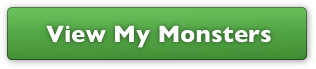
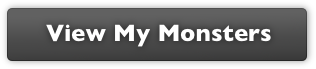
Match buttons to gray color scheme.

diff --git a/spec/requests/monster_edit_spec.rb b/spec/requests/monster_edit_spec.rb
@@ -93,7 +93,7 @@ describe "Edit Monster page" do
 
       it "updates the level" do
         click_button('Save this Monster')
-        page.should have_normal_content "Level: 12"
+        page.should have_normal_content "Level 12"
       end
 
       it "fails if the level is 0" do
@@ -131,7 +131,7 @@ describe "Edit Monster page" do
 
       it "updates the role" do
         click_button('Save this Monster')
-        page.should have_normal_content 'Role: Skirmisher'
+        page.should have_normal_content 'Skirmisher'
       end
     end
 
@@ -139,33 +139,33 @@ describe "Edit Monster page" do
       before :each do 
         visit edit_monster_path(@mon.id)
         select('Elite', :from => 'monster[subrole]')
+        click_button('Save this Monster')
       end
 
-      it "redirects to the show page" do
-        click_button('Save this Monster')
+      it "redirects to the list page" do
         page.should_not have_field('monster[subrole]')
       end
 
       it "updates the subrole to Elite" do
-        click_button('Save this Monster')
-        page.should have_normal_content 'Role: Elite'
+        visit edit_monster_path(@mon.id)
+        page.should have_normal_content 'Elite'
       end
     end
 
     context "when changing the subrole to Solo" do
       before :each do 
         visit edit_monster_path(@mon.id)
-        select('Elite', :from => 'monster[subrole]')
+        select('Solo', :from => 'monster[subrole]')
+        click_button('Save this Monster')
       end
 
-      it "redirects to the show page" do
-        click_button('Save this Monster')
+      it "redirects to the list page" do
         page.should_not have_field('monster[subrole]')
       end
 
-      it "updates the subrole to Elite" do
-        click_button('Save this Monster')
-        page.should have_normal_content 'Role: Elite'
+      it "updates the subrole to Solo" do
+        visit edit_monster_path(@mon.id)
+        page.should have_normal_content 'Solo'
       end
     end
 
@@ -173,16 +173,16 @@ describe "Edit Monster page" do
       before :each do 
         visit edit_monster_path(@mon.id)
         fill_in('monster[name]', :with => "testmonster_name_change_#{Time.now.to_i}")
+        click_button('Save this Monster')
       end
 
-      it "redirects to the show page" do
-        click_button('Save this Monster')
+      it "redirects to the list page" do
         page.should_not have_field('monster[name]')
       end
 
       it "updates the name" do
         click_button('Save this Monster')
-        page.should have_normal_content "Name: testmonster_name_change_"
+        page.should have_normal_content "testmonster_name_change_"
       end
 
       it "fails if the name is blank" do
